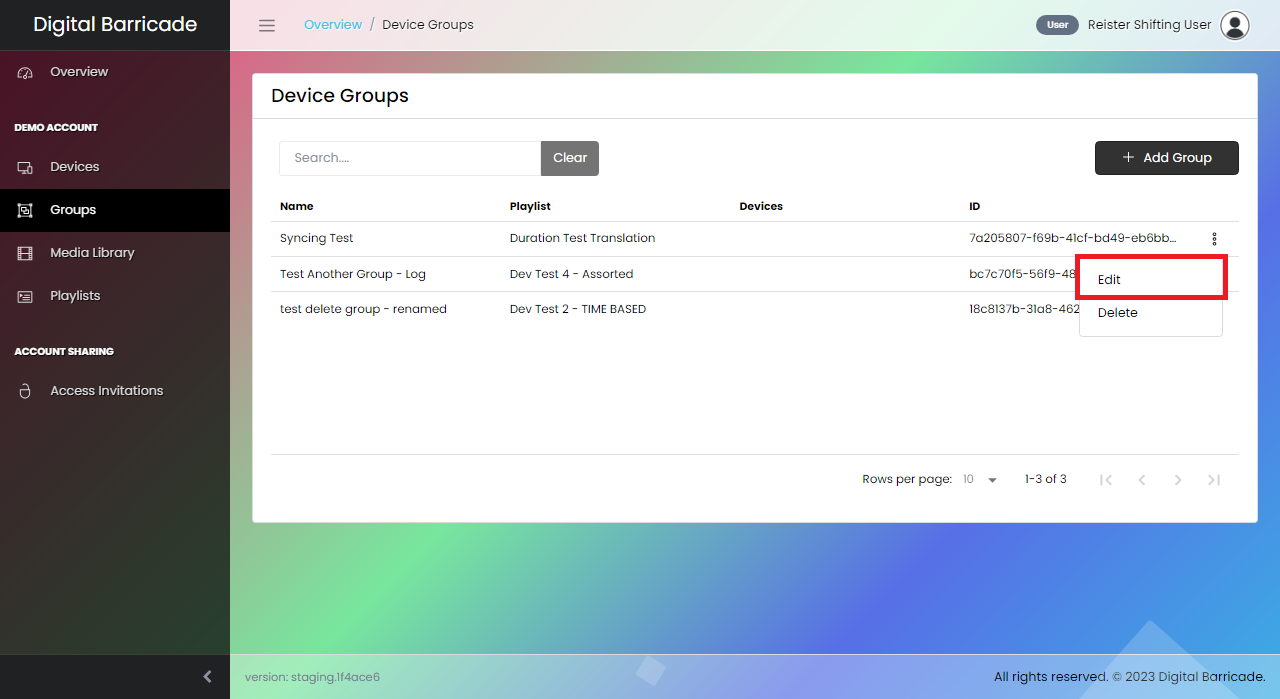
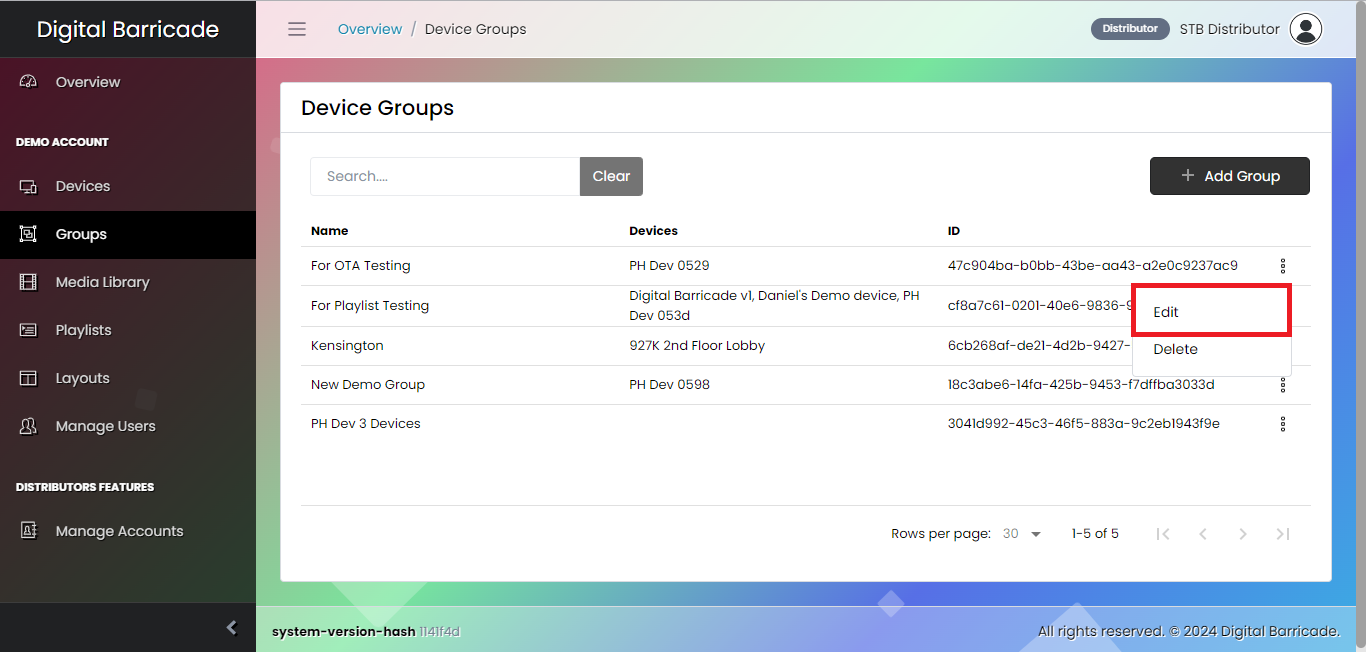
updated screenshots for device

diff --git a/docs/jp/devices.md b/docs/jp/devices.md
@@ -20,8 +20,7 @@ Digital Barricadeウェブサイトには左側にパネルがあり、登録さ
 
 ![edit_device](../images/devices/devicesEditModal.png ":size=100%")
 
-![edit_device](../images/devices/devicesTimeZone.png ":size=40%")
-![edit_device](../images/devices/devicesPlaylist.png ":size=40%")
+![edit_device](../images/devices/devicesEditModal2.png ":size=100%")
 
 前述の機能に加えて、ユーザーはデバイスの名前を変更したり、デバイスに関する重要な情報にアクセスしたりすることもできる。この機能により、ユーザーはウェブサイトに登録されている様々なデバイスに、ユニークで認識しやすい名前を割り当てることができる。
 
@@ -41,5 +40,17 @@ Digital Barricadeウェブサイトには左側にパネルがあり、登録さ
 再起動オプションをクリックすると、デバイスの再起動プロセスを確認するためのモーダルが表示されます。
 
 ![reboot_device](../images/devices/devicesRebootModal.png ":size=100%")
+
+# デバイスの登録解除
+
+<div class="description">
+
+ドロップダウンメニューの登録解除オプションをクリックすると、そのデバイスは当社のシステムからリンク解除され、（再登録しない限り）今後のアップデートを受け取ることができなくなります。
+
+![reboot_device](../images/devices/devicesUnregister.png ":size=100%")
+
+その結果、そのデバイスは、当社が将来リリースする可能性のあるさらなるアップデートや機能拡張を受けられなくなります。ただし、後日デバイスを再登録するか、当社のシステムに再接続することを選択した場合、デバイスは再びアップデートを受ける資格を有し、当社が提供する新機能や改良の恩恵を受けることができます。
+
+![reboot_device](../images/devices/devicesUnregisterModal.png ":size=100%")
 
 </div>

diff --git a/docs/kr/devices.md b/docs/kr/devices.md
@@ -20,8 +20,7 @@
 
 ![edit_device](../images/devices/devicesEditModal.png ":size=100%")
 
-![edit_device](../images/devices/devicesTimeZone.png ":size=40%")
-![edit_device](../images/devices/devicesPlaylist.png ":size=40%")
+![edit_device](../images/devices/devicesEditModal2.png ":size=100%")
 
 언급 된 기능 외에도 사용자는 장치 이름을 변경하고 장치와 관련된 중요한 정보에 액세스 할 수 있습니다. 이 기능을 통해 사용자는 웹사이트에 등록된 여러 장치에 고유하고 알아볼 수 있는 이름을 지정할 수 있습니다.
 
@@ -41,5 +40,17 @@
 재부팅 옵션을 클릭하면 장치의 재부팅 프로세스를 확인하는 모달이 표시됩니다.
 
 ![reboot_device](../images/devices/devicesRebootModal.png ":size=100%")
+
+# 디바이스 등록 취소
+
+<div class="description">
+
+드롭다운 메뉴에서 등록 취소 옵션을 클릭하면 해당 장치는 당사 시스템에서 연결이 해제되며 향후 업데이트를 받지 못합니다(재등록하지 않는 한)'라는 문구가 표시되며, 이는 해당 장치가 더 이상 당사 시스템과 연결되거나 연결되지 않음을 의미합니다.
+
+![reboot_device](../images/devices/devicesUnregister.png ":size=100%")
+
+따라서 향후에 출시될 수 있는 추가 업데이트나 개선 사항을 받을 수 없습니다. 그러나 나중에 장치를 다시 등록하거나 시스템에 다시 연결하면 다시 한 번 업데이트를 받을 수 있는 자격이 부여되며, 새로운 기능이나 개선 사항의 혜택을 받을 수 있습니다.
+
+![reboot_device](../images/devices/devicesUnregisterModal.png ":size=100%")
 
 </div>

diff --git a/docs/devices.md b/docs/devices.md
@@ -20,8 +20,7 @@ Once the user clicks on edit in the dropdown menu, a modal will appear, presenti
 
 ![edit_device](/images/devices/devicesEditModal.png ":size=100%")
 
-![edit_device](/images/devices/devicesTimeZone.png ":size=40%")
-![edit_device](/images/devices/devicesPlaylist.png ":size=40%")
+![edit_device](/images/devices/devicesEditModal2.png ":size=100%")
 
 In addition to the mentioned functionalities, the user also has the capability to rename the device and access crucial information pertaining to it. This feature allows the user to assign unique and recognizable names to different devices registered in the website.
 
@@ -41,5 +40,17 @@ Upon clicking the reboot option in the dropdown menu, the device will undergo a 
 Once the reboot option is clicked, it will display a modal to confirm the reboot process for the device.
 
 ![reboot_device](/images/devices/devicesRebootModal.png ":size=100%")
+
+# Unregister a Device
+
+<div class="description">
+
+Upon clicking the unregister option in the dropdown menu, the device will be unlinked from our system and won't receive any future updates (unless re-registered),' it means that the device will no longer be connected or associated with our system.
+
+![reboot_device](/images/devices/devicesUnregister.png ":size=100%")
+
+As a result, it will not receive any further updates or enhancements that we may release in the future. However, if you choose to re-register the device or reconnect it to our system at a later time, it will once again become eligible to receive updates and benefit from any new features or improvements we offer.
+
+![reboot_device](/images/devices/devicesUnregisterModal.png ":size=100%")
 
 </div>

diff --git a/docs/jp/device_groups.md b/docs/jp/device_groups.md
@@ -2,7 +2,7 @@
 
 <div class="description">
 
-パネルの[グループ]タブでは、複数のデバイスで再生されているプレイリストを確認できます。ユーザーは特定のグループ内の全デバイスのプレイリストを管理・更新することができ、再生中のコンテンツをシームレスにコントロールすることができます。ユーザーは作成したグループをパネルのグループタブで確認できます。各グループには、様々なデバイスで再生されているプレイリストが表示されます。ユーザーは、特定のグループ内の全デバイスにわたってプレイリストを管理・更新することができ、再生中のコンテンツをシームレスにコントロールすることができます。
+パネルの "Groups "タブで、ユーザーはグループに追加できるデバイスのリストを見ることができます。このページでは、通常モードのレイアウトへのデバイスの割り当てを行います。この機能により、レイアウト内のデバイスをシームレスに管理し、運用ワークフローを最適化します。
 
 ![group_create_playlist](../images/groups/groupsTab.png ":size=100%")
 

diff --git a/docs/kr/device_groups.md b/docs/kr/device_groups.md
@@ -2,7 +2,7 @@
 
 <div class="description">
 
-패널의 그룹 탭에서 사용자는 여러 디바이스에서 재생 중인 재생 목록을 확인할 수 있습니다. 사용자는 특정 그룹에 속한 모든 디바이스의 재생 목록을 관리하고 업데이트하여 재생 중인 콘텐츠를 원활하게 제어할 수 있습니다. 사용자는 패널의 그룹 탭에서 생성된 그룹을 볼 수 있습니다. 각 그룹에는 다양한 장치에서 재생 중인 재생 목록이 표시됩니다. 사용자는 특정 그룹에 속한 모든 디바이스에서 재생 목록을 관리하고 업데이트할 수 있어 재생 중인 콘텐츠를 원활하게 제어할 수 있습니다.
+패널의 그룹 탭에서 사용자는 그룹에 추가할 수 있는 디바이스 목록을 볼 수 있습니다. 이 페이지에서는 일반 모드에서 레이아웃에 디바이스를 할당할 수 있습니다. 이 기능을 사용하면 레이아웃 내에서 디바이스를 원활하게 관리하여 운영 워크플로우를 최적화할 수 있습니다.
 
 ![group_create_playlist](../images/groups/groupsTab.png ":size=100%")
 

diff --git a/docs/device_groups.md b/docs/device_groups.md
@@ -2,7 +2,7 @@
 
 <div class="description">
 
-Under the Groups tab in the panel, the user can view which playlist is being played on multiple devices. The user can manage and update the playlists across all devices in a specific group, providing seamless control over the content being played. The user can view the created groups under the groups tab of the panel. Each group shows the playlist that is being played across various devices. The user has the ability to manage and update the playlists across all devices in a specific group, providing seamless control over the content being played.
+Under the Groups tab in the panel, the user can view the list of devices that can be added to a group. This page is responsible for the assignment of devices onto layouts in normal mode. This feature ensures seamless management of devices within layouts, optimizing operational workflows.
 
 ![group_create_playlist](/images/groups/groupsTab.png ":size=100%")
 
